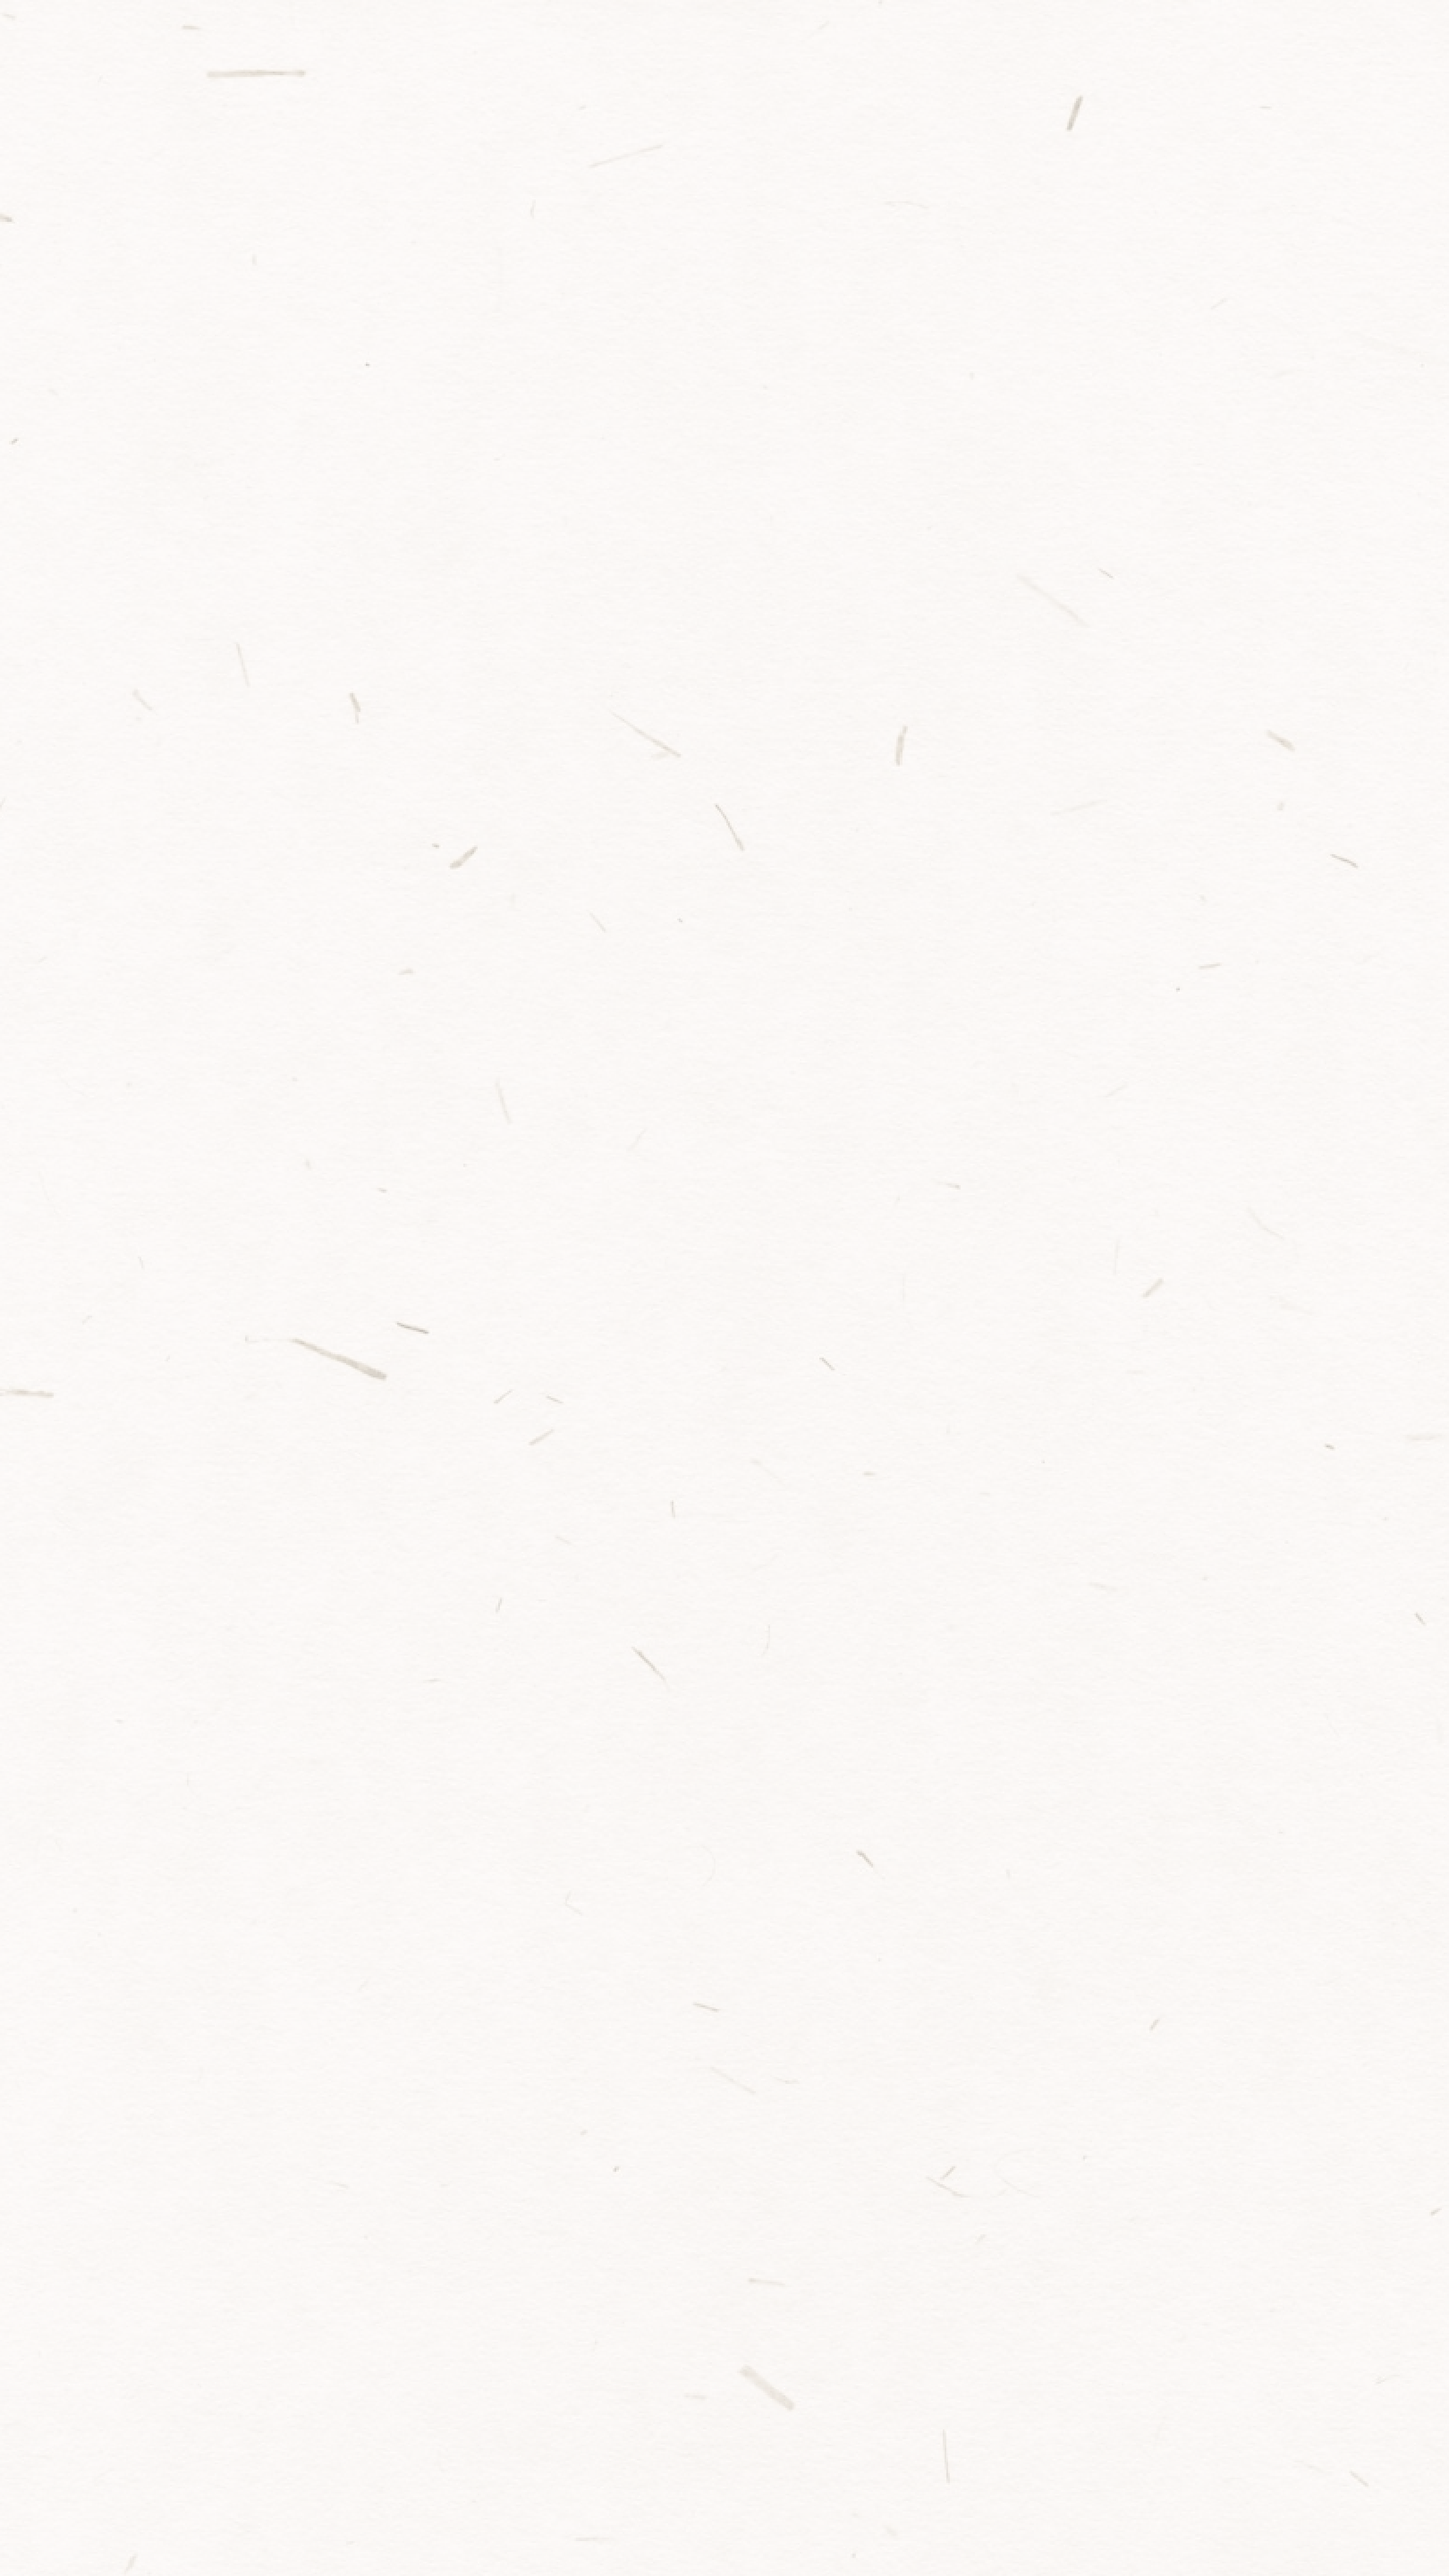
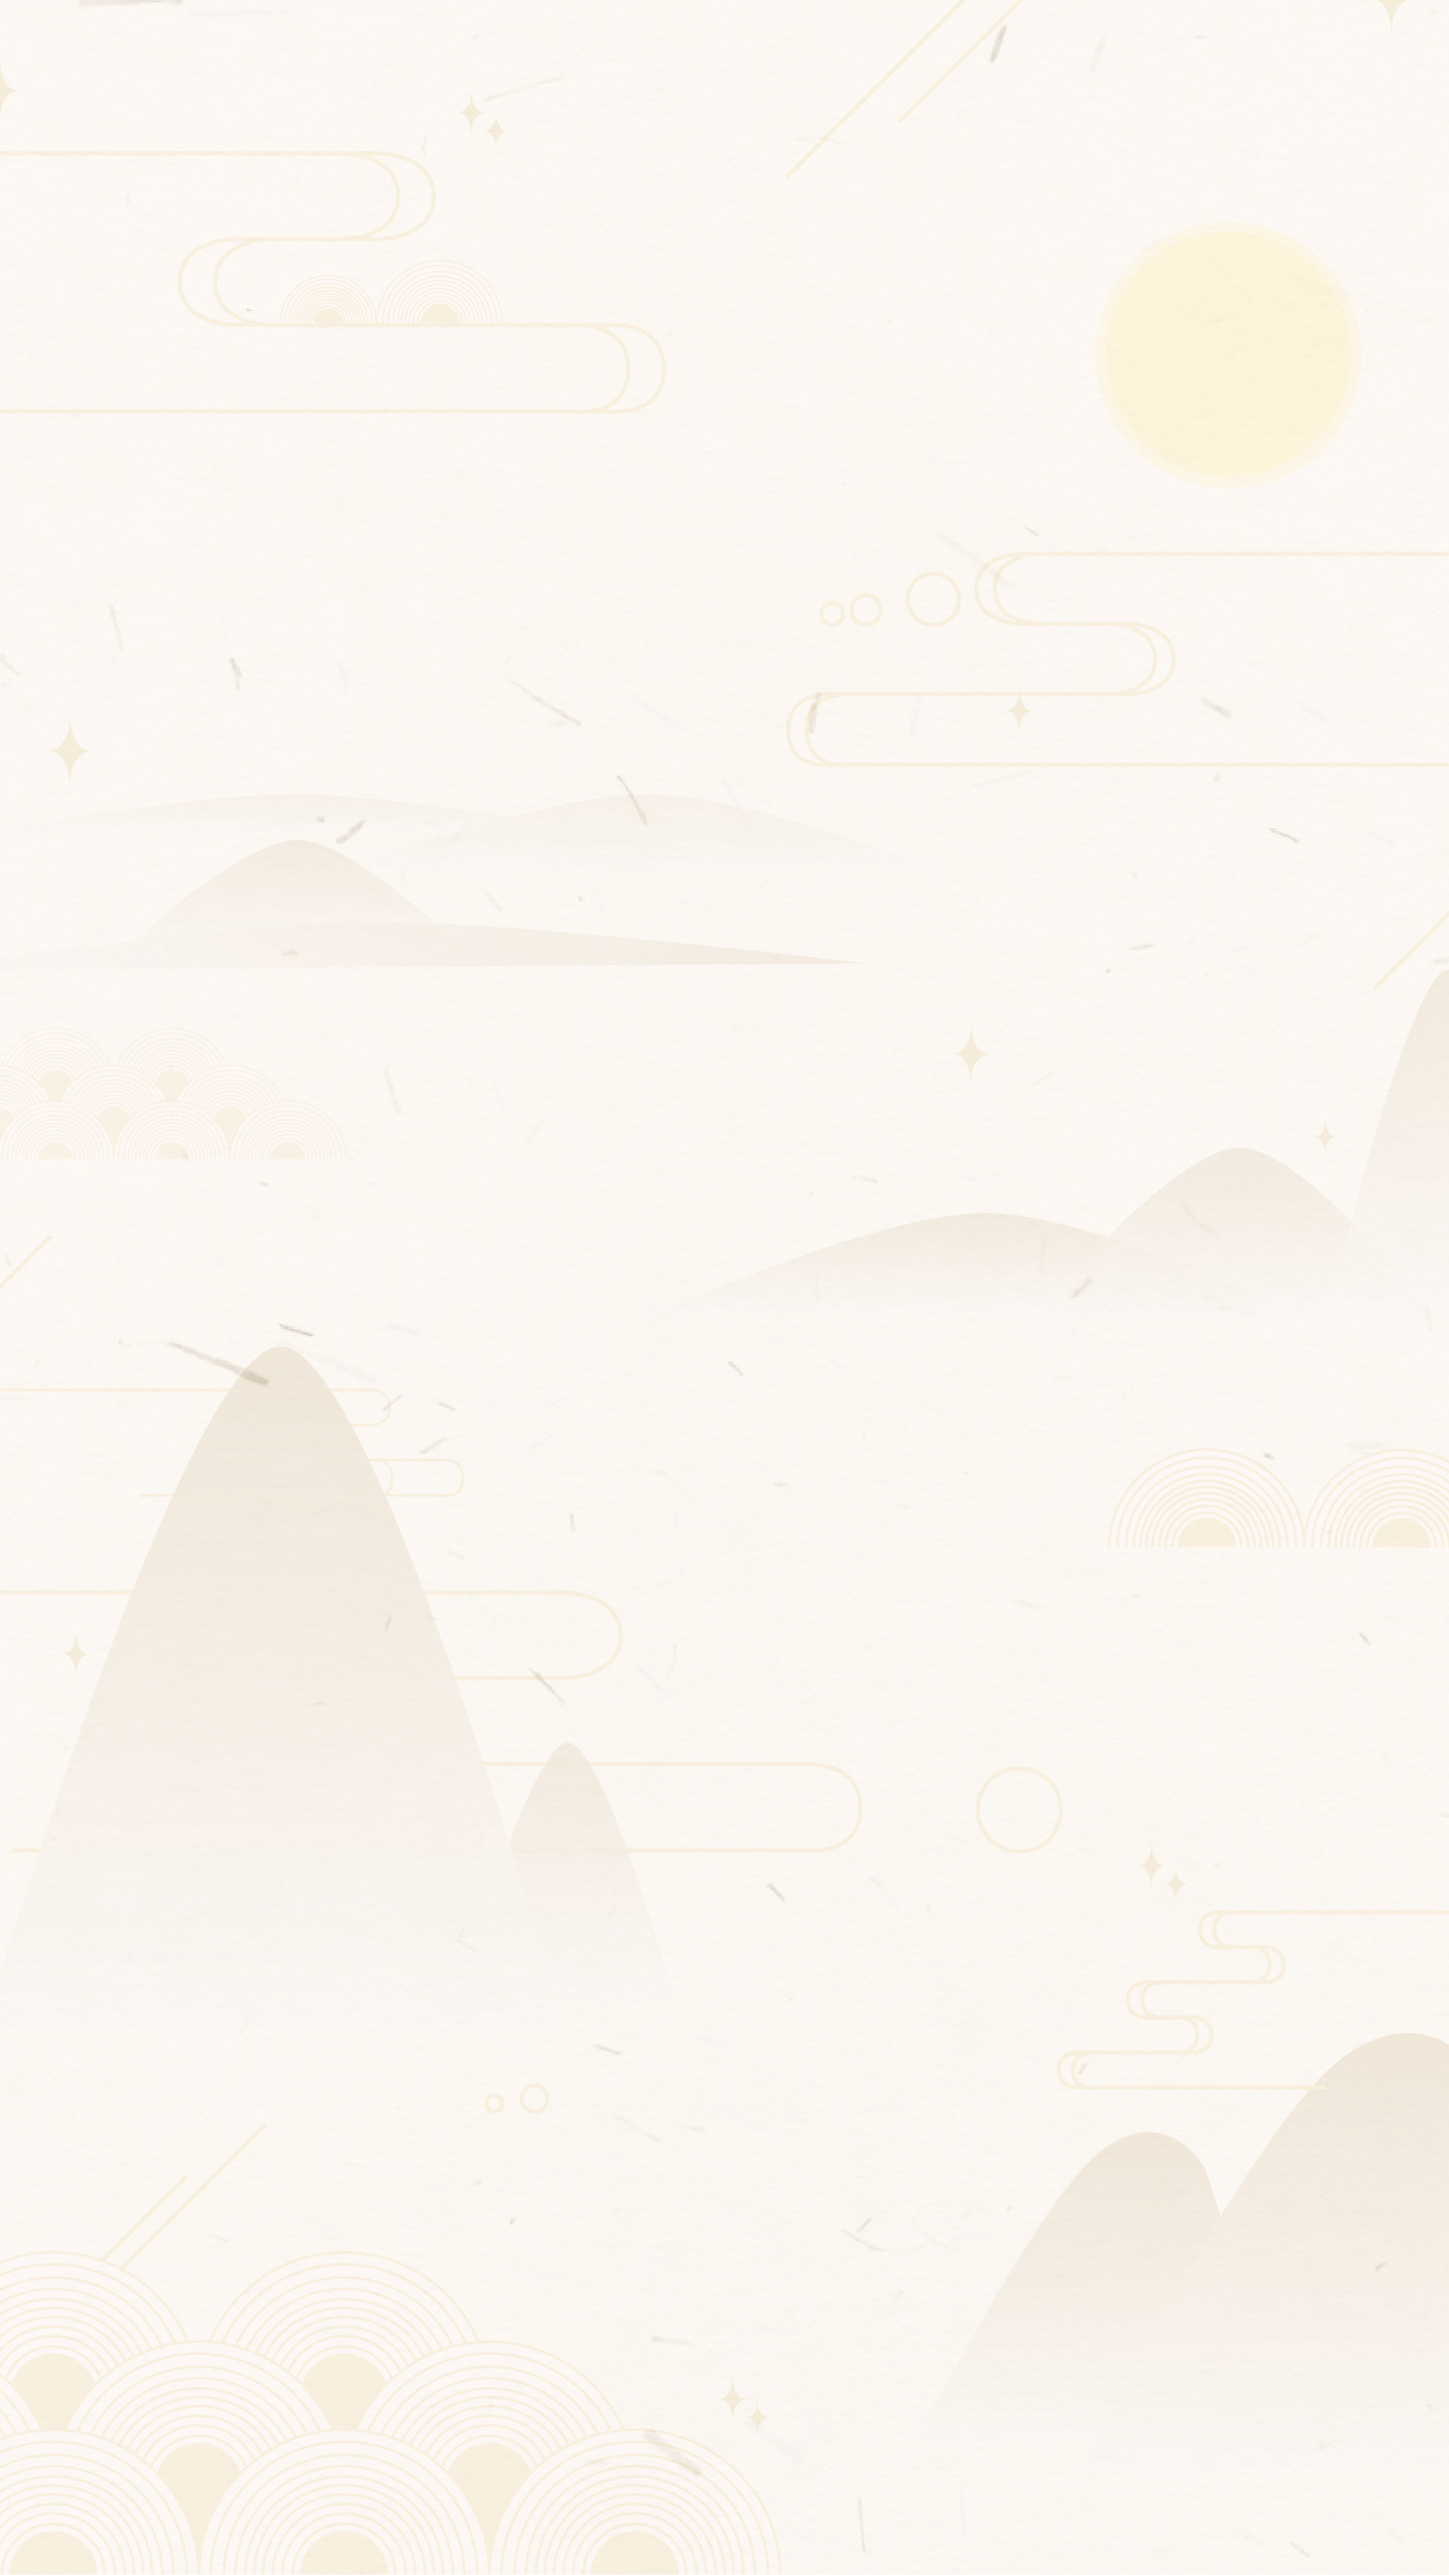
feat: add alternative background

diff --git a/newyearletter/src/main/frontend/src/components/Container.js b/newyearletter/src/main/frontend/src/components/Container.js
@@ -1,16 +1,19 @@
 import styled from 'styled-components'
 
-import background from '../assets/images/background.png'
+import Background from '../assets/images/background.png'
+import BackgroundAlt from '../assets/images/background_old.png'
 
-function Container({ children }) {
+function Container({ alt, children }) {
   return (
-    <Background>
+    <BackgroundContainer
+      background={alt !== undefined ? BackgroundAlt : Background}
+    >
       <Content>{children}</Content>
-    </Background>
+    </BackgroundContainer>
   )
 }
 
-const Background = styled.div`
+const BackgroundContainer = styled.div`
   position: relative;
   display: flex;
   justify-content: center;
@@ -21,7 +24,7 @@ const Background = styled.div`
   min-height: 100vh;
   height: auto;
 
-  background: url(${background});
+  background: url(${({ background }) => background});
   background-size: cover;
   background-repeat: repeat;
 `

diff --git a/newyearletter/src/main/frontend/src/pages/Main/LoginMain/MoneyInfo.js b/newyearletter/src/main/frontend/src/pages/Main/LoginMain/MoneyInfo.js
@@ -1,15 +1,17 @@
 import PropTypes from 'prop-types'
+import { useSelector } from 'react-redux'
 import styled from 'styled-components'
 
 import FlowerText from '../../../components/FlowerText'
 
-function MoneyInfo({ isFocus = false, value = 0 }) {
+function MoneyInfo({ isFocus = false }) {
+  const { money } = useSelector(state => state.infoState)
   return (
     <FlowerText>
       <Content>
         <div>내가 받은 용돈</div>
         <div className={isFocus ? 'bold focus' : 'bold'}>
-          {value.toLocaleString()}
+          {money.toLocaleString()}
         </div>
       </Content>
     </FlowerText>
@@ -18,7 +20,6 @@ function MoneyInfo({ isFocus = false, value = 0 }) {
 
 MoneyInfo.propTypes = {
   isFocus: PropTypes.bool,
-  value: PropTypes.number,
 }
 const Content = styled.div`
   display: flex;

diff --git a/newyearletter/src/main/frontend/src/pages/Main/LoginMain.js b/newyearletter/src/main/frontend/src/pages/Main/LoginMain.js
@@ -22,9 +22,6 @@ function LoginMain() {
   const dispatch = useDispatch()
 
   const { token, uuid } = useSelector(state => state.loginState)
-  const { money, rabbitAcc, rabbitColor } = useSelector(
-    state => state.infoState
-  )
   const fetch = React.useCallback(
     async (token, uuid) => {
       try {
@@ -76,7 +73,7 @@ function LoginMain() {
 
   const navigate = useNavigate()
   return (
-    <Container>
+    <Container alt>
       <Logo sx={2.5} />
       <Wrapper>
         <ButtonWrapper>
@@ -103,7 +100,7 @@ function LoginMain() {
 
         <Promise />
 
-        <MoneyInfo value={money} />
+        <MoneyInfo />
       </Wrapper>
 
       <MyRabbit />

diff --git a/newyearletter/src/main/frontend/src/utils/constant.js b/newyearletter/src/main/frontend/src/utils/constant.js
@@ -82,7 +82,7 @@ export const ACCESSORY_OPTION = [
   <Accessory src={Pocket} width="30%" top="48%" left="50%" />,
   <Accessory src={Ribbon} width="40%" top="18%" left="30%" />,
   <Accessory src={Sunglasses} width="40%" top="35%" left="37%" />,
-  <Accessory src={Flower} width="45%" top="48%" left="45%" />,
+  <Accessory src={Flower} width="40%" top="48%" left="45%" />,
 ]
 
 export const ACCESSORY_ICON_OPTION = [

diff --git a/newyearletter/src/main/frontend/src/pages/InviteLetter.js b/newyearletter/src/main/frontend/src/pages/InviteLetter.js
@@ -65,7 +65,7 @@ function InviteLetter() {
   }, [])
 
   return (
-    <Container>
+    <Container alt>
       <Wrapper gap={2}>
         <Logo sx={2.5} />
         <SmallText>{nickName}님에게 응원의 편지를 적어주세요.</SmallText>

diff --git a/newyearletter/src/main/frontend/src/pages/Custom.js b/newyearletter/src/main/frontend/src/pages/Custom.js
@@ -146,7 +146,7 @@ function Custom() {
   }, [])
 
   return (
-    <Container>
+    <Container alt>
       <Wrapper gap={4}>
         <Logo sx={2.5} />
         <Wrapper gap={1.5}>
